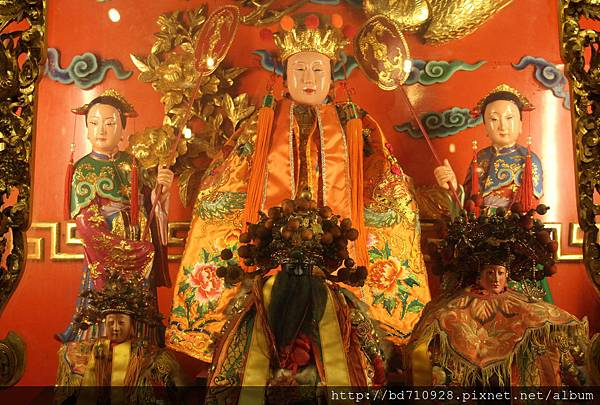
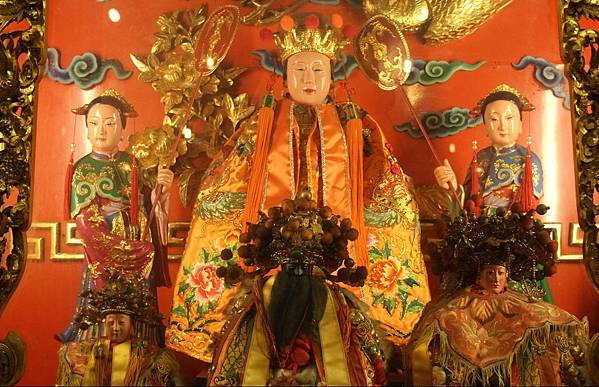
0927 done

diff --git a/src/components/TimeLine.svelte b/src/components/TimeLine.svelte
@@ -51,13 +51,13 @@
             text: "受邀前往日本表演，展現青山宮祭典文化的國際交流",
             img: "/images/日本.png"
         },
-
-         {
+        {
             year:"2024" ,
             month:"",
             text: "重現百年傳統「詩意閣」，於萬華再度登場，讓青山祭典的文化美學重新展現於世人眼前",
             img: "/images/藝閣.png"
         },
+         
     ];
 
     let currentIndex = 0;
@@ -195,6 +195,9 @@
         background-color: #1d1d1e;
         
     }
+    .timeline-item .image {
+    opacity: 1 !important;
+}
 
     h1 {
         font-size: 46px;
@@ -219,6 +222,7 @@
         flex: 0 0 calc(100% / var(--slides-to-show, 2)); /* 使用 CSS 變數作為後備 */
         padding: 0 10px;
         box-sizing: border-box;
+        opacity: 1 !important; 
     }
 
     .timeline-item .image {
@@ -232,9 +236,7 @@
         transition: opacity 0.4s cubic-bezier(0.55, 0.085, 0.68, 0.53);
     }
 
-    .timeline-item:hover .image {
-        opacity: 1;
-    }
+    
 
     .year {
         font-size: 36px;

diff --git a/src/routes/qingshan/+page.svelte b/src/routes/qingshan/+page.svelte
@@ -159,6 +159,7 @@
         <img src="/images/尊王夫人.jpg" alt="靈安尊王" class="w-full max-h-[95vh]  rounded-full border-2 border-tw-blue shadow-lg hover:scale-105 transition object-contain " />
       </SlideInSection>
     </div> 
+    
     <div class="md:w-1/2 px-4 " >
       <h2 class="text-3xl font-bold mb-4 text-title font-bakudai-md">尊王夫人</h2>
       <p class="py-4 text-lg bg-gray-900 border-l-4 border-amber-300 leading-relaxed">
